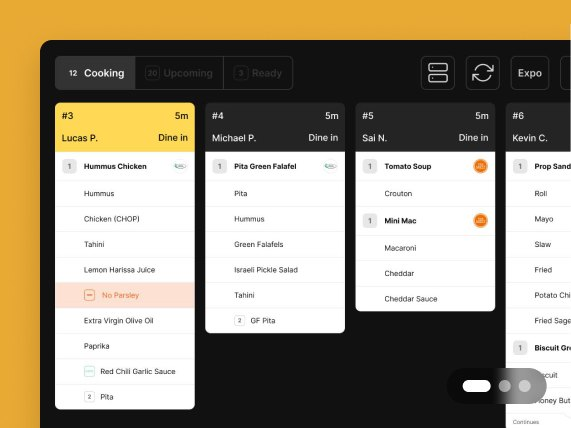
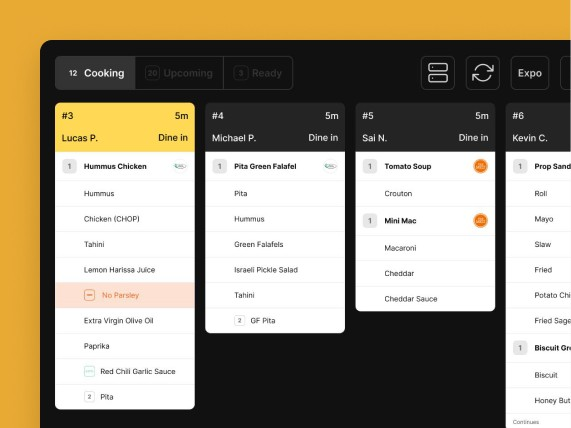
Tile dots match the number of popup pictures; corona popup page fits the browser
- Dots are drawn by the site for every tile whose popup has 2+ pictures,
  one dot per picture; the Acura dot follows the flipping ads
- Juzzy's brand and Local Kitchens tiles re-exported without baked dots
- coronavirus.gov popup page lines up with the browser frame again

Claude-Session: https://claude.ai/code/session_01DoMJVhPM61S6qeyrrrouu3

Changed region(s): [[0.8039, 0.8505, 0.9825, 0.9416]]

diff --git a/src/content/more-work.ts b/src/content/more-work.ts
@@ -34,7 +34,6 @@ export interface MoreWorkItem {
   size: Size;
   media?: TileMedia; // leave out for a blurred "Coming soon" tile
   soonImage?: string; // picture to blur on a "Coming soon" tile
-  dots?: boolean; // show the "more images" dots (only when the picture doesn't already have them)
   popup?: {
     project: string;
     title: string;
@@ -51,7 +50,6 @@ export const moreWork: MoreWorkItem[][] = [
       title: "Boombox",
       description: "Booking flow for hosted team events.",
       size: [285, 212],
-      dots: true,
       media: {
         kind: "scroll",
         scroll: {
@@ -194,7 +192,7 @@ export const moreWork: MoreWorkItem[][] = [
             scroll: {
               base: "base-corona-slide.jpg",
               page: "page-corona.jpg",
-              window: { x: 49, y: 68, w: 622, h: 416 },
+              window: { x: 50, y: 68, w: 620, h: 416 },
               pageHeight: 1849.61,
               keys: [[1.5, 0], [25.5, -1431.6], [27.5, -1431.6], [29.5, 0]],
               loop: 31,
@@ -207,7 +205,6 @@ export const moreWork: MoreWorkItem[][] = [
       title: "Acura",
       description: "Magazine ads for the TLX, MDX and RLX launches at Mullen.",
       size: [285, 214],
-      dots: true,
       media: { kind: "cycle", srcs: ["s-acura-1.jpg", "s-acura-2.jpg", "s-acura-3.jpg", "s-acura-4.jpg"], every: 0.45 },
       popup: {
         project: "Acura · Mullen",
